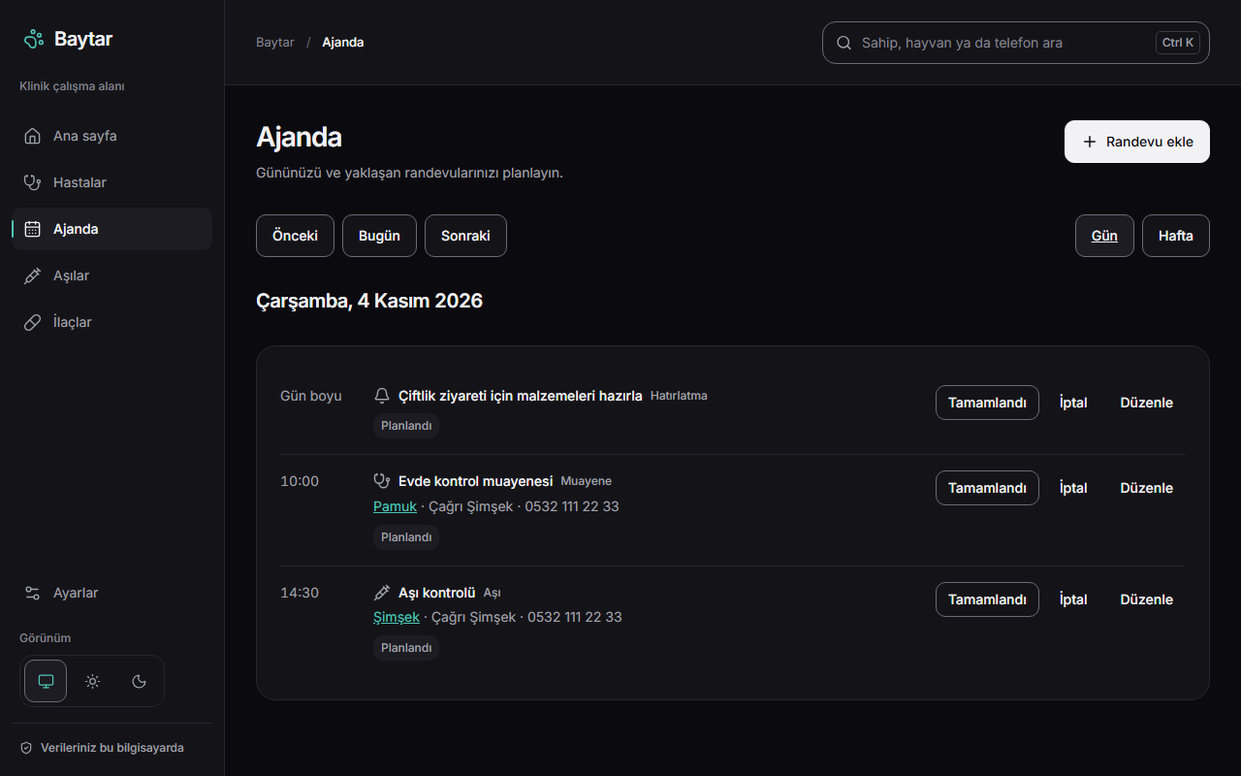
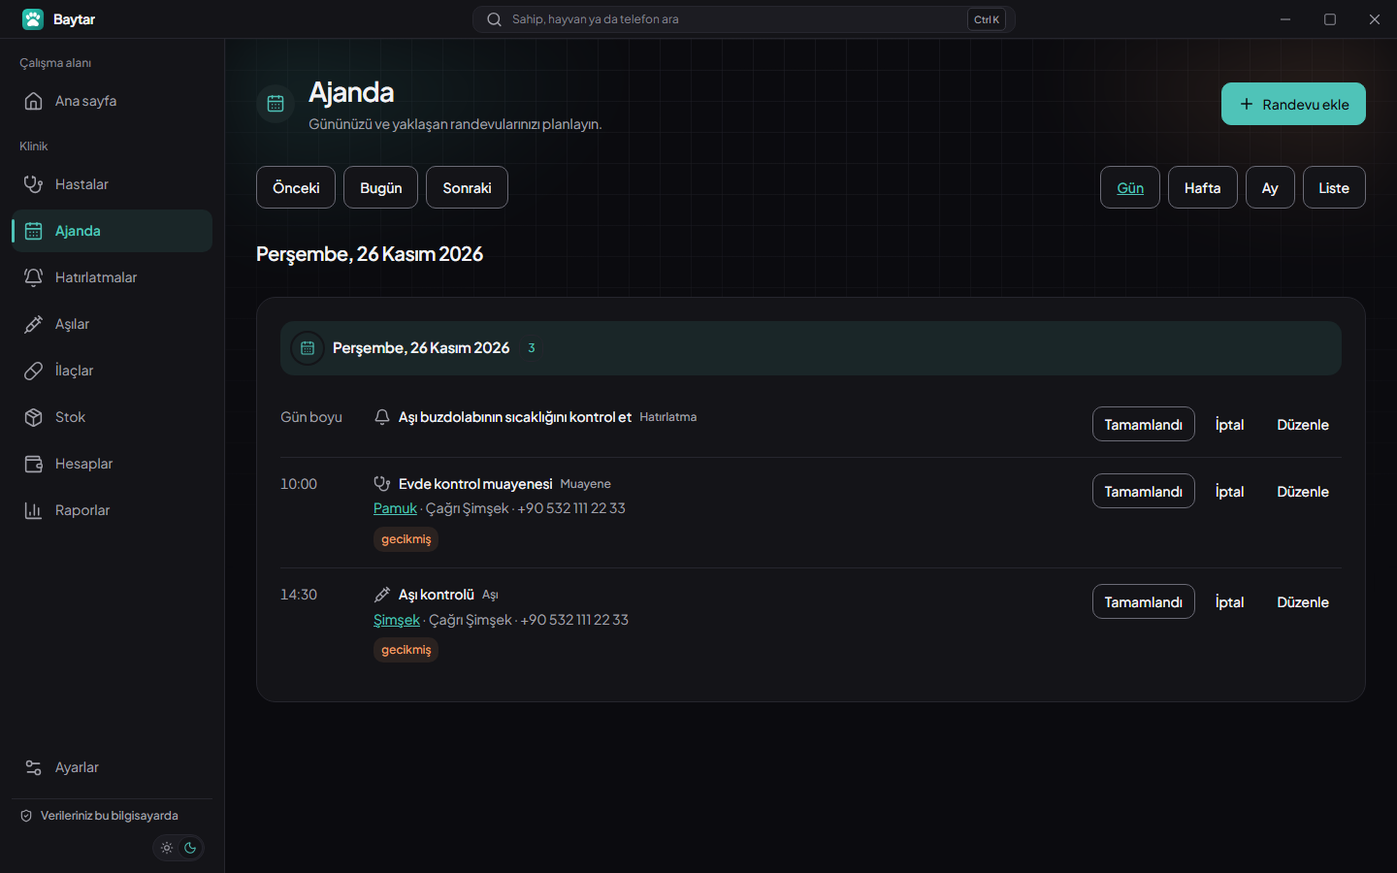
docs: public 0.4.0 release: README, changelog and new screenshots
README describes the practice features, links the latest release and shows the current
screens in light and dark themes. Agent and test docs no longer contain local paths; ui-check
takes the synthetic legacy file with --legacy-db. Demo data no longer mentions farm visits.

diff --git a/app/src/lib/i18n/tr.ts b/app/src/lib/i18n/tr.ts
@@ -72,7 +72,7 @@ export const tr = {
   appointmentUpcoming: 'Yaklaşan randevular', appointmentPast: 'Son geçmiş randevular', appointmentNoUpcoming: 'Yaklaşan randevu yok.',
   agendaDayEmpty: 'Bu gün için randevu yok.', agendaEmptyHint: 'Bir randevu veya hatırlatma ekleyerek gününüzü planlayın.',
   appointmentDateInvalid: 'Geçerli bir tarih seçin.', appointmentNumberInvalid: 'Geçerli bir pozitif tam sayı girin.',
-  appointmentSampleVisit: 'Evde kontrol muayenesi', appointmentSampleReminder: 'Çiftlik ziyareti için malzemeleri hazırla',
+  appointmentSampleVisit: 'Evde kontrol muayenesi', appointmentSampleReminder: 'Aşı buzdolabının sıcaklığını kontrol et',
   appointmentSampleVaccine: 'Aşı kontrolü',
   addVisit: 'Muayene ekle', editVisit: 'Muayeneyi düzenle', visit: 'Muayene',
   visitFormDescription: 'Muayene bulgularını ve reçeteyi kaydedin.',

diff --git a/README.md b/README.md
@@ -1,8 +1,12 @@
 # Baytar
 
 [![CI](https://github.com/muhammedalikutbay/baytar/actions/workflows/ci.yml/badge.svg?branch=main)](https://github.com/muhammedalikutbay/baytar/actions/workflows/ci.yml)
+[![Latest release](https://img.shields.io/github/v/release/muhammedalikutbay/baytar)](https://github.com/muhammedalikutbay/baytar/releases/latest)
+[![License: GPL-3.0](https://img.shields.io/badge/license-GPL--3.0-blue)](LICENSE)
 
-Free, offline veterinary practice software for independent veterinarians. Keep owners, patients, visits, vaccinations, medications and appointments on your own computer.
+Free, open-source, offline practice software for independent veterinarians and small pet clinics. Patients, visits, vaccinations, stock, accounts and reminders in one desktop app for Windows, macOS and Linux. Your records stay on your own computer.
+
+**[Download the latest version](https://github.com/muhammedalikutbay/baytar/releases/latest)** · [Türkçe](#türkçe)
 
 <picture>
   <source media="(prefers-color-scheme: dark)" srcset="docs/screenshots/home-dark.png">
@@ -12,11 +16,14 @@ Free, offline veterinary practice software for independent veterinarians. Keep o
 
 ## Why Baytar
 
-Baytar began as a project for a relative who works as a freelance veterinarian without a clinic. Existing Turkish tools are cloud-based and paid. Baytar is free, works offline and keeps practice data on the veterinarian's own computer. *Baytar* is the Ottoman Turkish word for veterinarian.
+Baytar began as a project for a relative who works as a freelance veterinarian without a clinic. Most practice software is a paid cloud subscription. Baytar is free, works without an internet connection and keeps practice data on the veterinarian's own computer, while offering the features vets expect from professional tools. *Baytar* is the Ottoman Turkish word for veterinarian.
+
+The interface is in Turkish. The built-in vaccine and medicine catalog follows products sold in Turkey and can be edited freely.
 
 ## Features
 
-- **Patients:** owners and pets (dogs, cats, birds, rabbits, rodents, ferrets, reptiles and any other animal), photos and files, allergy/behaviour alerts, Turkish-aware search.
+- **Patients:** owners and pets (dogs, cats, birds, rabbits, rodents, ferrets, reptiles and any other animal), photos and files, allergy/behaviour alerts, Turkish-aware search. Patients are picked from an owner list that adapts to the size of the practice.
+- **Validated input:** international phone numbers (+90 by default), e-mail, Turkish ID and tax numbers, microchip numbers, amounts and times.
 - **Visits:** SOAP-style records with vitals (weight, temperature, heart and respiratory rate, body condition score), reusable templates, prescriptions and weight history.
 - **Vaccines:** give and plan vaccinations from one page, schedules from a built-in catalog, due and overdue lists, calendar, WhatsApp reminders.
 - **Built-in catalog:** common pet vaccines, medicines (brands sold in Turkey and generics) and services; every entry is editable. The dose calculator only does arithmetic on doses you confirm.
@@ -27,21 +34,22 @@ Baytar began as a project for a relative who works as a freelance veterinarian w
 - **Documents:** printable vaccination card, prescription, visit summary and account statement with your clinic header.
 - **Agenda** with recurring appointments, an optional **PIN lock**, light and dark themes.
 - **Safety:** automatic daily backups, restore, a backup before every migration, import and update; lossless import from PatientsCare.
-- Automatic updates from GitHub Releases (you can turn the check off).
+- Update check against GitHub Releases, with a backup before every update (you can turn the check off).
 
 ## Screenshots
 
-| Light theme | Light theme |
+| | |
 |---|---|
-| ![Patients list](docs/screenshots/patients-light.png)<br>Search owners and patients. | ![Patient card](docs/screenshots/patient-light.png)<br>Patient details, visit history and weight history. |
-| ![Vaccination tracking](docs/screenshots/vaccines-light.png)<br>Upcoming and overdue vaccinations. | ![Agenda](docs/screenshots/agenda-light.png)<br>Appointments and reminders. |
-| ![Medications](docs/screenshots/medications-light.png)<br>Your medication list and dose calculator. | ![PatientsCare import](docs/screenshots/import-light.png)<br>Review the import before confirming it. |
+| ![Patient page](docs/screenshots/patient-light.png)<br>Patient page: upcoming items, weight trend, history, vaccines, appointments and files. | ![Owner page](docs/screenshots/owner-light.png)<br>Owner page: pets first, contact actions, account and statement. |
+| ![Vaccines](docs/screenshots/vaccines-light.png)<br>Give and plan vaccinations, calendar, due and overdue lists. | ![Agenda](docs/screenshots/agenda-light.png)<br>Day, week, month and list views. |
+| ![Reminders](docs/screenshots/reminders-dark.png)<br>Reminders centre with WhatsApp messages. | ![Accounts](docs/screenshots/accounts-light.png)<br>Receivables with debt age, cash summary, price list. |
+| ![Stock](docs/screenshots/inventory-light.png)<br>Stock with lots, expiry dates and warnings. | ![Reports](docs/screenshots/reports-dark.png)<br>Monthly reports and CSV export. |
 
-Dark theme is available throughout the app; the home screen above follows your system color preference.
+Every screen has a light and a dark theme; the app follows the system setting until you pick one. More captures are in [docs/screenshots](docs/screenshots/).
 
 ## Download and install
 
-Download the latest installer from [GitHub Releases](https://github.com/muhammedalikutbay/baytar/releases).
+Download the installer for your system from the [latest release](https://github.com/muhammedalikutbay/baytar/releases/latest).
 
 - **Windows:** Run the per-user `*-setup.exe`; administrator access is not required. Unsigned builds may show Microsoft SmartScreen. Select **More info**, then **Run anyway** if you trust the release you downloaded.
 - **macOS:** Open the DMG and move Baytar to Applications. For an unsigned build's first launch, right-click the app and choose **Open**.
@@ -57,13 +65,15 @@ Baytar stores its SQLite database on your computer:
 
 Backups are in the `backups` folder inside that directory. The automatic retention policy keeps daily backups for the 14 newest dates and one backup per week for the 8 most recent weeks. Manual and safety backups are separate from this daily-backup retention. You can create, restore and export backups in the app.
 
-No account, no server, no telemetry; the only network call is the optional update check.
+Set the `BAYTAR_DATA_DIR` environment variable to keep the data in another folder, for example on an external drive.
+
+No account, no server, no telemetry. The network is used only for the optional update check and when you choose to open WhatsApp.
 
 ## Moving from PatientsCare
 
 The import wizard has four steps: select the old database, review a preview, confirm the import, and inspect the result. Baytar copies and reads the source file; it never changes the old PatientsCare file. It takes a backup of the Baytar database before importing.
 
-Known values are normalized where possible, including restoring a lost leading zero on recognized Turkish mobile numbers and parsing supported date formats. Unrecognized or malformed values are preserved in notes and reported for review. The import is designed to retain records without silently discarding unknown data.
+Known values are normalized where possible, including converting recognized Turkish numbers to the international format (+90) and parsing supported date formats. Unrecognized or malformed values are preserved in notes and reported for review. The import is designed to retain records without silently discarding unknown data.
 
 ## Development
 
@@ -107,7 +117,7 @@ See [CONTRIBUTING.md](CONTRIBUTING.md) for issues, branches, code style and data
 
 ## History
 
-Baytar started in January 2025 as PatientsCare, a Windows Forms app (tag [`v0.1-winforms`](https://github.com/muhammedalikutbay/baytar/tree/v0.1-winforms)). It was rewritten in 2026 with Tauri and Rust for Windows, macOS and Linux.
+Baytar started in January 2025 as PatientsCare, a Windows Forms app (tag [`v0.1-winforms`](https://github.com/muhammedalikutbay/baytar/tree/v0.1-winforms)). It was rewritten in 2026 with Tauri and Rust for Windows, macOS and Linux and grew into a full practice tool. The maintainer planned and reviewed the rewrite; AI coding agents wrote much of the implementation. The plan is in [docs/v2-plan.md](docs/v2-plan.md) and the task history in `.beads/`. Release notes are in [CHANGELOG.md](CHANGELOG.md).
 
 ## License
 
@@ -117,7 +127,9 @@ Baytar is licensed under [GPL-3.0](LICENSE). PatientsCare through `v0.1-winforms
 
 ### Baytar
 
-Bağımsız veteriner hekimler için ücretsiz ve çevrimdışı çalışan bir muayenehane yazılımı. Sahip, hasta, muayene, aşı, ilaç ve randevu kayıtlarınızı kendi bilgisayarınızda tutun.
+Serbest çalışan veteriner hekimler ve küçük pet klinikleri için ücretsiz, açık kaynaklı ve internet olmadan çalışan muayenehane yazılımı. Hasta, muayene, aşı, stok, hesap ve hatırlatmalar Windows, macOS ve Linux'ta tek bir masaüstü uygulamasında. Kayıtlarınız kendi bilgisayarınızda kalır.
+
+**[En güncel sürümü indirin](https://github.com/muhammedalikutbay/baytar/releases/latest)**
 
 <picture>
   <source media="(prefers-color-scheme: dark)" srcset="docs/screenshots/home-dark.png">
@@ -127,11 +139,12 @@ Bağımsız veteriner hekimler için ücretsiz ve çevrimdışı çalışan bir 
 
 ### Neden Baytar?
 
-Baytar, kliniği olmadan serbest veteriner hekim olarak çalışan bir yakınımız için başladı. Türkiye'deki mevcut araçlar bulut tabanlı ve ücretli. Baytar ücretsizdir, çevrimdışı çalışır ve mesleki verileri veteriner hekimin kendi bilgisayarında saklar. *Baytar*, Osmanlı Türkçesinde veteriner anlamına gelir.
+Baytar, kliniği olmadan serbest veteriner hekim olarak çalışan bir yakınımız için başladı. Muayenehane yazılımlarının çoğu ücretli bulut aboneliğidir. Baytar ücretsizdir, internet olmadan çalışır ve verileri hekimin kendi bilgisayarında saklar; bunu yaparken profesyonel yazılımlardan beklenen özellikleri sunar. *Baytar*, Osmanlı Türkçesinde veteriner hekim anlamına gelir.
 
 ### Özellikler
 
-- **Hastalar:** sahipler ve evcil hayvanlar (köpek, kedi, kuş, tavşan, kemirgen, gelincik, sürüngen ve diğer), fotoğraf ve dosyalar, alerji/davranış uyarıları, Türkçe harflere duyarlı arama.
+- **Hastalar:** sahipler ve evcil hayvanlar (köpek, kedi, kuş, tavşan, kemirgen, gelincik, sürüngen ve diğer), fotoğraf ve dosyalar, alerji/davranış uyarıları, Türkçe harflere duyarlı arama. Hasta, kayıt sayısına göre uyum sağlayan sahip listesinden seçilir.
+- **Doğrulamalı alanlar:** uluslararası telefon numarası (varsayılan +90), e-posta, TC kimlik ve vergi numarası, mikroçip, tutar ve saat.
 - **Muayene:** SOAP düzeninde kayıt, vital bulgular (kilo, ateş, nabız, solunum, vücut kondisyonu), muayene şablonları, reçete ve kilo geçmişi.
 - **Aşılar:** tek sayfadan aşı uygulama ve planlama, hazır katalogdan aşı takvimi, yaklaşan ve geciken listeler, takvim, WhatsApp hatırlatması.
 - **Hazır katalog:** yaygın pet aşıları, ilaçlar (Türkiye'de satılan markalar ve jenerikler) ve hizmetler; hepsi düzenlenebilir. Doz hesaplayıcı yalnızca hekimin onayladığı değerlerle hesap yapar.
@@ -142,21 +155,22 @@ Baytar, kliniği olmadan serbest veteriner hekim olarak çalışan bir yakınım
 - **Belgeler:** klinik başlığıyla yazdırılabilir aşı karnesi, reçete, muayene özeti ve hesap ekstresi.
 - Tekrarlayan randevulu **ajanda**, isteğe bağlı **PIN kilidi**, açık ve koyu tema.
 - **Güvenlik:** otomatik günlük yedek, geri yükleme; her migrasyon, içe aktarma ve güncellemeden önce yedek; PatientsCare'den kayıpsız aktarım.
-- GitHub Releases üzerinden otomatik güncelleme (denetim kapatılabilir).
+- GitHub Releases üzerinden güncelleme denetimi; her güncellemeden önce yedek alınır (denetim kapatılabilir).
 
 ### Ekran görüntüleri
 
-| Açık tema | Açık tema |
+| | |
 |---|---|
-| ![Hasta listesi](docs/screenshots/patients-light.png)<br>Sahip ve hasta arama. | ![Hasta kartı](docs/screenshots/patient-light.png)<br>Hasta bilgileri, muayene ve kilo geçmişi. |
-| ![Aşı takibi](docs/screenshots/vaccines-light.png)<br>Yaklaşan ve gecikmiş aşılar. | ![Ajanda](docs/screenshots/agenda-light.png)<br>Randevu ve hatırlatmalar. |
-| ![İlaçlar](docs/screenshots/medications-light.png)<br>İlaç listeniz ve doz hesaplayıcı. | ![PatientsCare aktarımı](docs/screenshots/import-light.png)<br>Aktarımı onaylamadan önce inceleyin. |
+| ![Hasta sayfası](docs/screenshots/patient-light.png)<br>Hasta sayfası: yaklaşanlar, kilo eğrisi, geçmiş, aşılar, randevular ve dosyalar. | ![Sahip sayfası](docs/screenshots/owner-light.png)<br>Sahip sayfası: önce hayvanlar, iletişim, hesap ve ekstre. |
+| ![Aşılar](docs/screenshots/vaccines-light.png)<br>Aşı uygulama ve planlama, takvim, yaklaşan ve geciken aşılar. | ![Ajanda](docs/screenshots/agenda-light.png)<br>Gün, hafta, ay ve liste görünümleri. |
+| ![Hatırlatmalar](docs/screenshots/reminders-dark.png)<br>WhatsApp mesajlarıyla hatırlatma merkezi. | ![Hesaplar](docs/screenshots/accounts-light.png)<br>Borç yaşıyla alacaklar, kasa ve fiyat listesi. |
+| ![Stok](docs/screenshots/inventory-light.png)<br>Parti ve son kullanma tarihli stok, uyarılar. | ![Raporlar](docs/screenshots/reports-dark.png)<br>Aylık raporlar ve CSV dışa aktarma. |
 
-Uygulamanın tamamında koyu tema da kullanılabilir. Yukarıdaki ana ekran, sisteminizin renk tercihine göre gösterilir.
+Her ekranın açık ve koyu teması var; uygulama siz seçene kadar sistem ayarını izler. Diğer görüntüler [docs/screenshots](docs/screenshots/) klasöründe.
 
 ### İndirme ve kurulum
 
-En güncel kurulum dosyasını [GitHub Releases](https://github.com/muhammedalikutbay/baytar/releases) sayfasından indirin.
+Sisteminize uygun kurulum dosyasını [en güncel sürüm](https://github.com/muhammedalikutbay/baytar/releases/latest) sayfasından indirin.
 
 - **Windows:** Kullanıcı hesabınıza kurulum yapan `*-setup.exe` dosyasını çalıştırın; yönetici izni gerekmez. İmzalanmamış sürümlerde Microsoft SmartScreen uyarısı çıkabilir. İndirdiğiniz sürüme güveniyorsanız **More info** ve ardından **Run anyway** seçeneklerini kullanın.
 - **macOS:** DMG dosyasını açıp Baytar'ı Applications klasörüne taşıyın. İmzalanmamış sürümü ilk kez açarken uygulamaya sağ tıklayıp **Open** seçin.
@@ -172,13 +186,15 @@ Baytar, SQLite veritabanını bilgisayarınızda saklar:
 
 Yedekler bu klasörün içindeki `backups` dizinindedir. Otomatik saklama politikası, en yeni 14 tarihe ait günlük yedekleri ve son 8 haftanın her biri için bir yedeği tutar. Elle alınan ve güvenlik amaçlı yedekler bu günlük yedek politikasından ayrıdır. Uygulamadan yedek oluşturabilir, geri yükleyebilir ve dışa aktarabilirsiniz.
 
-Hesap yok, sunucu yok, telemetri yok; tek ağ bağlantısı isteğe bağlı güncelleme kontrolüdür.
+Verileri başka bir klasörde, örneğin harici diskte tutmak için `BAYTAR_DATA_DIR` ortam değişkenini ayarlayın.
+
+Hesap yok, sunucu yok, telemetri yok. İnternet yalnızca isteğe bağlı güncelleme denetiminde ve WhatsApp'ı açtığınızda kullanılır.
 
 ### PatientsCare'den geçiş
 
 Aktarım sihirbazı dört adımdan oluşur: eski veritabanını seçme, önizlemeyi inceleme, aktarımı onaylama ve sonucu görme. Baytar kaynak dosyanın bir kopyasını okuyup aktarır; eski PatientsCare dosyasını değiştirmez. Aktarımdan önce Baytar veritabanının yedeğini alır.
 
-Bilinen değerler mümkün olduğunda düzeltilir; örneğin tanınan Türkiye cep telefonu numaralarına kaybolan baştaki sıfır eklenir ve desteklenen tarih biçimleri okunur. Tanınmayan veya bozuk değerler notlarda korunur ve inceleme için raporlanır. Amaç, bilinmeyen verileri sessizce silmeden kayıtları korumaktır.
+Bilinen değerler mümkün olduğunda düzeltilir; örneğin tanınan Türkiye numaraları uluslararası biçime (+90) çevrilir ve desteklenen tarih biçimleri okunur. Tanınmayan veya bozuk değerler notlarda korunur ve inceleme için raporlanır. Amaç, bilinmeyen verileri sessizce silmeden kayıtları korumaktır.
 
 ### Geliştirme
 
@@ -222,7 +238,7 @@ Sorun bildirme, dallar, kod biçemi ve veri güvenliği için [CONTRIBUTING.md](
 
 ### Geçmiş
 
-Baytar, Ocak 2025'te PatientsCare adıyla bir Windows Forms uygulaması olarak başladı ([`v0.1-winforms`](https://github.com/muhammedalikutbay/baytar/tree/v0.1-winforms) etiketi). 2026'da Tauri ve Rust ile Windows, macOS ve Linux için yeniden yazıldı.
+Baytar, Ocak 2025'te PatientsCare adıyla bir Windows Forms uygulaması olarak başladı ([`v0.1-winforms`](https://github.com/muhammedalikutbay/baytar/tree/v0.1-winforms) etiketi). 2026'da Tauri ve Rust ile Windows, macOS ve Linux için yeniden yazıldı ve kapsamlı bir muayenehane aracına dönüştü. Yeniden yazımı geliştirici planlayıp denetledi; uygulamanın büyük kısmını yapay zekâ kodlama ajanları yazdı. Plan [docs/v2-plan.md](docs/v2-plan.md), görev geçmişi `.beads/` klasöründe. Sürüm notları [CHANGELOG.md](CHANGELOG.md) dosyasında.
 
 ### Lisans
 

diff --git a/CHANGELOG.md b/CHANGELOG.md
@@ -1,0 +1,48 @@
+# Changelog
+
+All notable changes to Baytar. Versions follow [Semantic Versioning](https://semver.org/); before 1.0 a minor
+version may change the database schema (Baytar migrates it automatically and backs it up first).
+
+## 0.4.0 — 2026-11-26
+
+First public release of the rewrite.
+
+### Added
+- Patient picker that lists owners with their pets: everything is expanded when the practice is small, owners
+  collapse behind an arrow when it grows, and an optional search filters as you type. Used for visits,
+  vaccinations, appointments, charges and payments.
+- Type-to-search lists for vaccines, medicines and services from the built-in catalog.
+- Time field that opens a quarter-hour list when clicked and accepts quick typing (`930` → 09:30).
+- "New patient" on the home and patients pages; after a new owner is saved Baytar offers to add their pets.
+- Patient page tabs: clinical history, vaccines (schedule per vaccine, give and plan), appointments, files;
+  an "upcoming" summary and a labelled weight chart.
+- Agenda month and list views; appointment titles are filled in from the type and the patient.
+- Medicines page filters (category, species, built-in, active) and a dose calculator that can take the
+  patient's latest weight.
+- Settings sections with their own navigation, a visible clinic logo upload (the logo replaces the app logo
+  inside Baytar), and WhatsApp modes (automatic, desktop app, WhatsApp Web) with a test message.
+- `BAYTAR_DATA_DIR` to keep the data folder somewhere else.
+
+### Changed
+- Larger labels and more compact fields with icons; required fields are explained on every form.
+- The owner page shows the pets first; the window bar no longer repeats the page name.
+- Phone numbers are shown as `+90 555 111 22 33`.
+
+### Fixed
+- Searching by an owner's name now returns all of the owner's pets.
+- The visit history no longer mixes in future appointments.
+
+## 0.3.0 — 2026-11-04 (not published)
+
+Practice features: accounts and receivables, stock with lots and expiry dates, reminders centre, reports with
+CSV export, printable documents, vitals and visit templates, attachments, built-in pet catalog (35 vaccines,
+117 medicines, 33 services), optional PIN lock, new visual identity and custom window bar. Pets only.
+
+## 0.2.0 — 2026-11-04 (not published)
+
+The Tauri and Rust rewrite of PatientsCare: owners, patients, visits, vaccinations, medications with a dose
+calculator, agenda, daily backups and lossless import from the old Windows Forms app.
+
+## 0.1 — 2025
+
+PatientsCare, the original Windows Forms app (tag `v0.1-winforms`).

diff --git a/tools/ui-check/README.md b/tools/ui-check/README.md
@@ -8,23 +8,23 @@ DevTools Protocol. Windows only, Node 24+, no npm packages. Adapted from the R6K
 ```powershell
 # build once: in app/, npm run tauri build -- --debug --no-bundle
 python tools/ui-check/make-legacy-db.py <scratch>/legacy-synthetic.db   # synthetic PatientsCare file
-node tools/ui-check/run.mjs --scenario e2e-import --exe <target>/debug/baytar-app.exe
+node tools/ui-check/run.mjs --scenario e2e-import --exe <target>/debug/baytar-app.exe --legacy-db <scratch>/legacy-synthetic.db
 ```
 
 Options: `--scenario <name>` (file in `scenarios/`), `--port` (default 9333), `--exe <path>` (otherwise
-`npm run tauri dev`), `--startup-timeout <seconds>`. Exit code 0 = pass, 1 = a step failed (`failure.png` saved).
+`npm run tauri dev`), `--startup-timeout <seconds>`, `--legacy-db <path>` (replaces `LEGACY_DB` in scenarios). Exit code 0 = pass, 1 = a step failed (`failure.png` saved).
 
 The tool isolates the WebView profile. Point the app at an empty data folder with the `BAYTAR_DATA_DIR`
 environment variable so a scenario never touches real records in `%APPDATA%\com.kutbay.baytar`:
 
 ```powershell
-$env:BAYTAR_DATA_DIR = "$env:TEMPaytar-e2e"; node tools/ui-check/run.mjs --scenario e2e-v2 --exe <target>/debug/baytar-app.exe
+$env:BAYTAR_DATA_DIR = "$env:TEMP\baytar-e2e"; node tools/ui-check/run.mjs --scenario e2e-v2 --exe <target>/debug/baytar-app.exe --legacy-db <scratch>/legacy-synthetic.db
 ```
 
 `e2e-flows` clicks through the usability flows (new owner → add pet, record picker, vaccine combobox, time input,
 pet tabs). `e2e-v2` covers the v2 features (import with E.164 phones, catalog, vaccines, billing, reports, reminders and a
 screenshot of every screen). The `e2e-import` scenario expects an empty folder and
-the synthetic file path written in the scenario; edit the path for your machine.
+the synthetic file given with `--legacy-db`.
 
 Step types: `wait` (`selector`/`text`), `click`, `eval` (`expr`, optional `expect`, promises awaited), `screenshot`,
 `reload`, `localStorage.clear`. Output goes to `tools/ui-check/out/` (gitignored).

diff --git a/AGENTS.md b/AGENTS.md
@@ -5,8 +5,8 @@ owners, patients, visits, vaccinations, medications with a dose calculator, and 
 Runs on Windows, macOS and Linux. Data stays on the vet's computer. It replaces PatientsCare, a
 Windows Forms app (tag `v0.1-winforms`, branch `legacy`) whose SQLite data must be imported without loss.
 
-Planning notes (Turkish) live in the owner's Obsidian vault:
-`C:\Users\Kutbay\Desktop\ObsidianVault\Projeler\PatientsCare\AI\02-plan.md`.
+Planning notes in Turkish live in the maintainer's private notes; the public plan is `docs/v2-plan.md` and
+the task history is in `.beads/`.
 
 ## Stack
 - Tauri 2 shell, Rust backend, SvelteKit (static adapter) + Svelte 5 + TypeScript + Vite frontend in `app/`.
@@ -29,9 +29,9 @@ tools/                build and check scripts
   lives in one place (`app/src/lib/i18n/tr.ts`) so another language can be added later.
 - Data safety comes first. Never write to a legacy PatientsCare database: copy it first. Every schema
   migration takes a backup first and runs in a transaction. Nothing is hard-deleted from the UI (`deleted_at`).
-- Real veterinary data is personal data. It lives in `C:\Users\Kutbay\Desktop\Baytar-veri\` and never enters
+- Real veterinary data is personal data. It lives outside the repository and never enters
   git, test fixtures, logs or AI prompts. Fixtures are synthetic.
-- `main` is the only long-lived branch. Workers run in git worktrees (`C:\Users\Kutbay\Desktop\Baytar-wt\<issue>`,
+- `main` is the only long-lived branch. Workers run in git worktrees next to the repository (`../Baytar-wt/<issue>`,
   branch `task/<issue>`), make one commit, and touch only the files their task names. The orchestrator
   reviews, rebases and fast-forwards into `main`.
 - Task tracking is Beads (`bd`, prefix `bay`). Only the orchestrator writes to Beads. Workers never run `bd`.

diff --git a/docs/README.md b/docs/README.md
@@ -2,11 +2,12 @@
 
 Project documentation for development, data handling, design and releases:
 
+- [v2 plan](v2-plan.md) — scope and design of the practice-tool rewrite.
 - [Agent brief](agent-brief.md) — scope and working rules for project contributors.
 - [Data model](data-model.md) — SQLite schema, storage conventions and domain records.
 - [Legacy schema](legacy-schema.md) — PatientsCare database structure, known data issues and import behavior.
 - [Design language](design-language.md) — interface principles, theme tokens, typography and component guidance.
 - [Releasing](releasing.md) — versioning, release builds, signing and installation notes.
-- [Screenshots](screenshots/) — light and dark interface captures and the design-token overview.
+- [Screenshots](screenshots/) — light and dark captures of every screen (synthetic demo data).
 
 For user installation, development setup, project architecture and contribution guidance, see the [README](../README.md) and [Contributing guide](../CONTRIBUTING.md).
